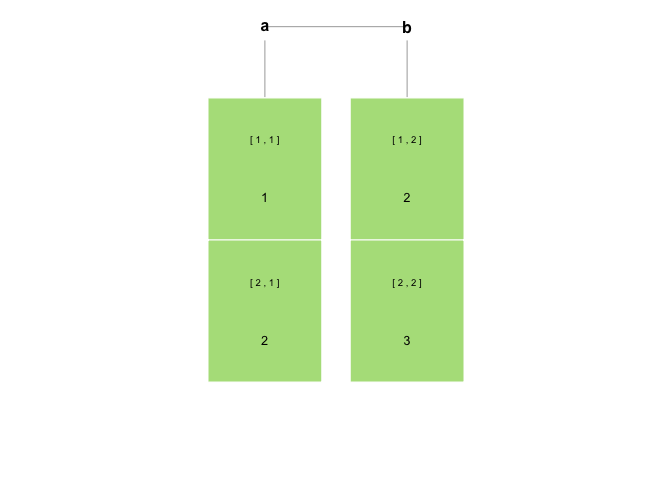
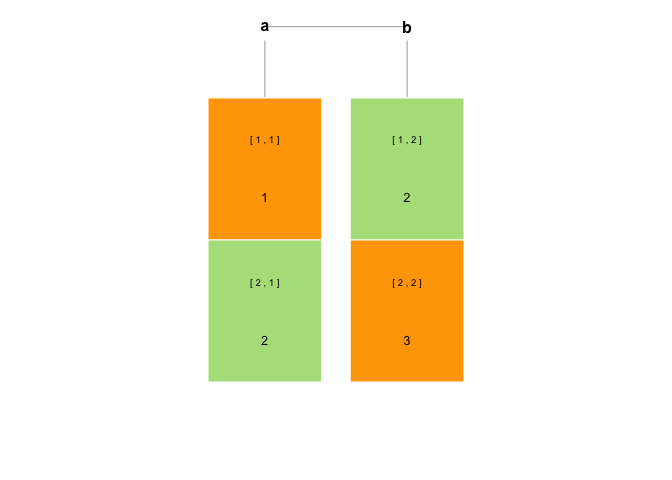
Modified the example in the README.

Changed region(s): [[0.5, 0.5, 0.6875, 0.8125], [0.3125, 0.1875, 0.5, 0.5]]

diff --git a/README.md b/README.md
@@ -21,6 +21,8 @@ An example
 library(rblocks)
 mydf <- data.frame(a=1:2, b=2:3)
 b_dataframe <- make_block(mydf, type = "data.frame")
+b_dataframe[1,1] <- "orange"
+b_dataframe[2,2] <- "orange"
 display(b_dataframe, show_indices = T, show_data = T)
 ```
 
